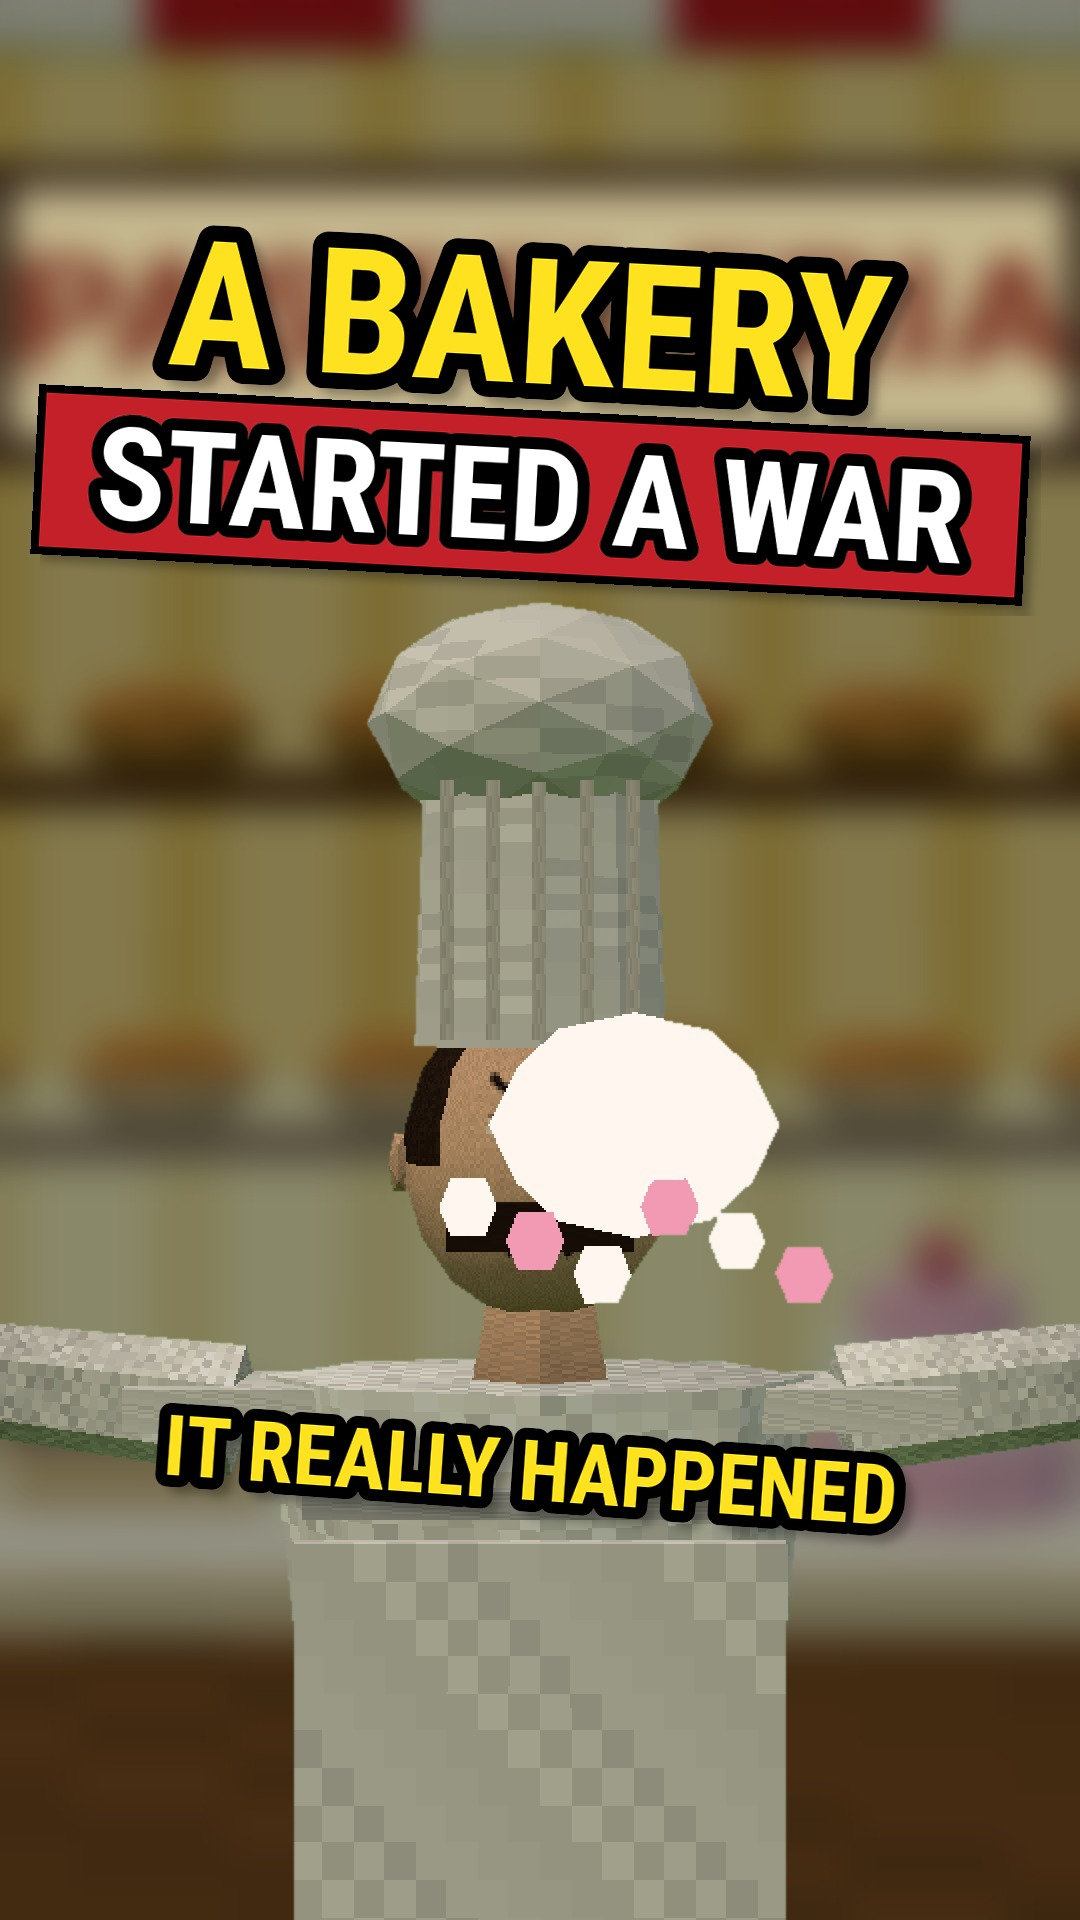
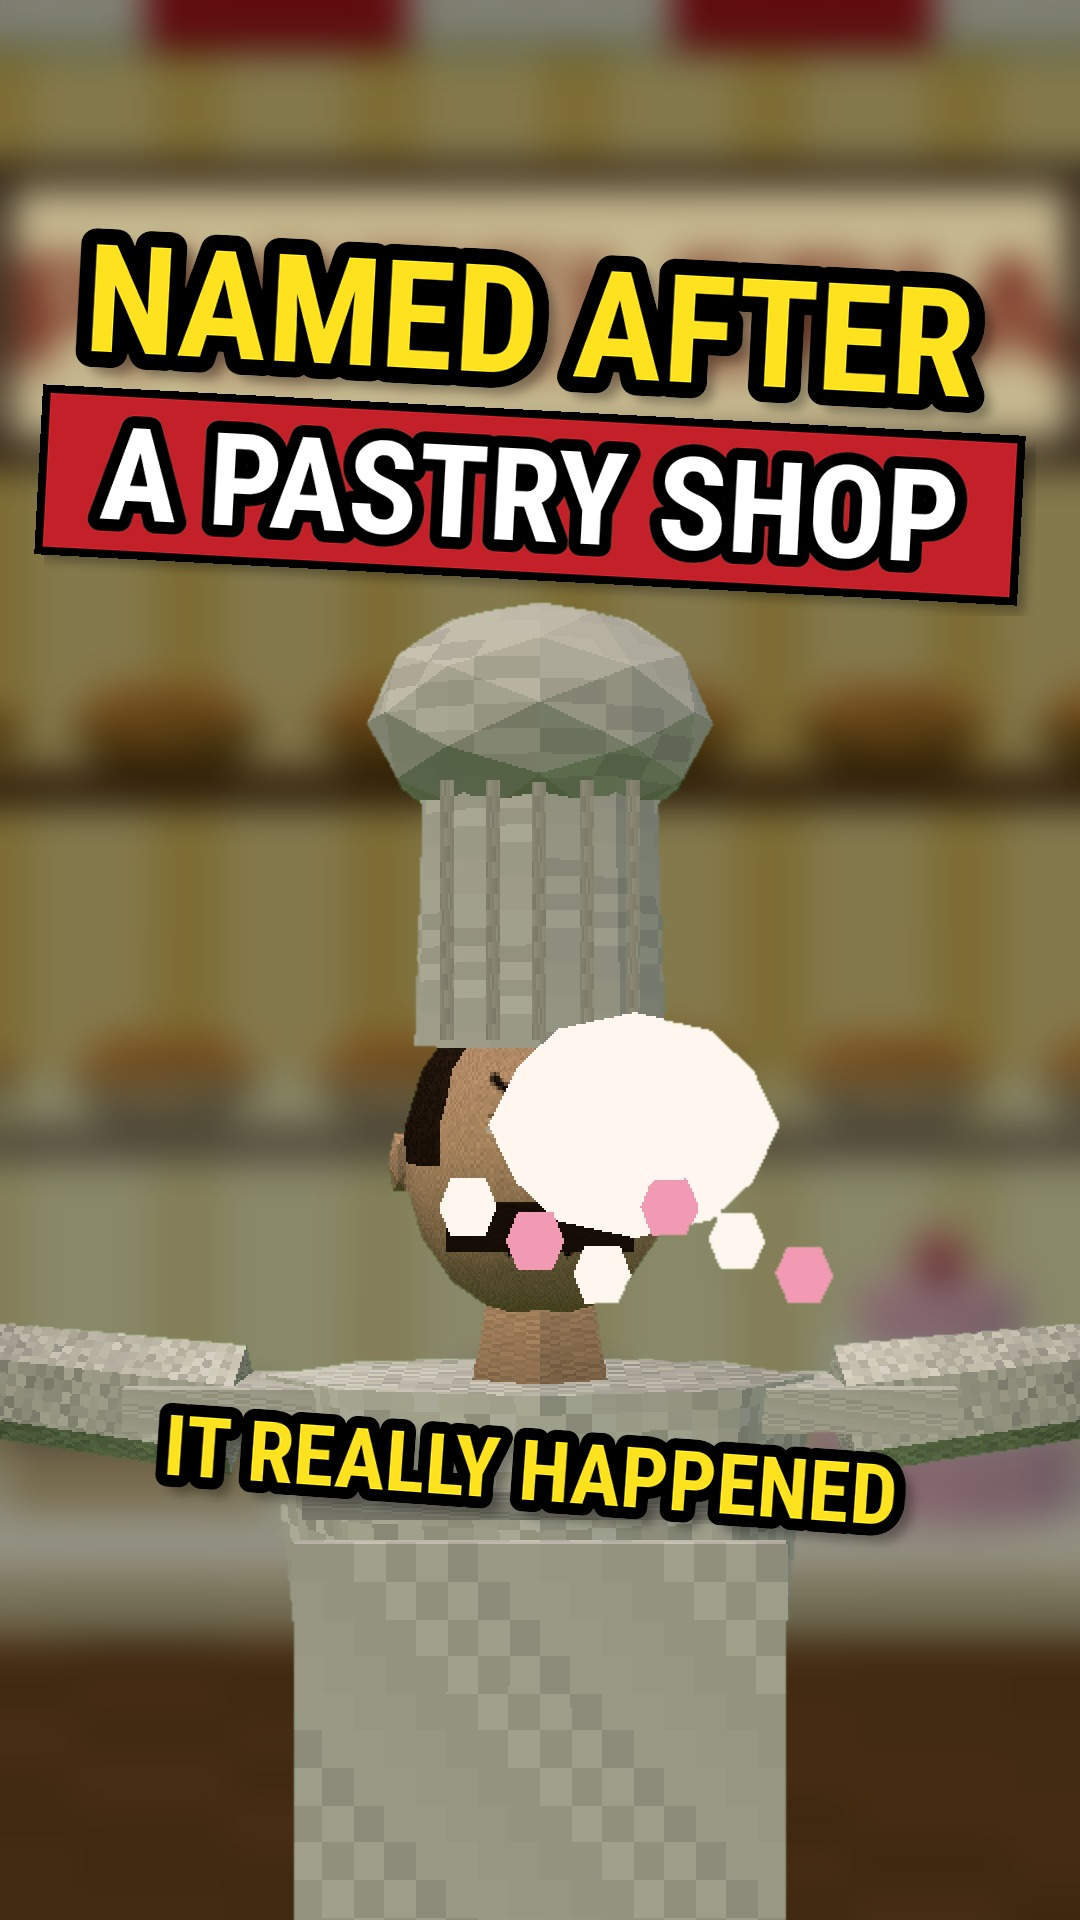
PosttimeLowPoly Pastry War: fact-checked against Wikipedia (hook/claims corrected, mob-drags-the-leg scene, military-honors instead of unverified 1842 state funeral), new title/cover/meta/source note
Claude-Session: https://claude.ai/code/session_01EUpLfkeMS9zWWcQnBujwnA

Changed region(s): [[0.0306, 0.0938, 0.9778, 0.3125]]

diff --git a/studio/lowpoly/pa2.js b/studio/lowpoly/pa2.js
@@ -24,6 +24,9 @@ const _pa2hide=hideAll;hideAll=function(){_pa2hide();PACOFFIN.scale.setScalar(1)
 function paSea(){ground.visible=false;water.visible=true;sandR.visible=false;PROPS.forEach(p=>p.visible=false);clouds.forEach(c=>c.visible=true);S.background=SKY;S.fog.color.set(HOR);HEMI.intensity=1.15}
 function paBeach(){paSea();ground.visible=true;ground.material.map=OCSAND;ground.material.needsUpdate=true}
 function paBall(i,from,to,a,hgt){const e=cl(a);PABALL[i].visible=a>0&&a<1;PABALL[i].position.set(lerp(from[0],to[0],e),lerp(from[1],to[1],e)+Math.sin(e*Math.PI)*hgt,lerp(from[2],to[2],e))}
+function paFuneral(u,d,k,cake){paSea();ground.visible=true;ground.material.map=grassT;ground.material.needsUpdate=true;water.visible=false;sandR.visible=false;show(PACOFFIN,PASANTA,PASOLD,PASOLD2,PACAKE);PACOFFIN.position.set(0,0,.4);PACOFFIN.scale.setScalar(1.4);PACOFFIN.rotation.y=.2;PASANTA.rest();PASANTA.at(-1.5,0,.4,.6);PASANTA.arms[1].rotation.set(-2.6,0,.2);PASANTA.face('bored');
+ PASOLD.rest();PASOLD.at(1.4,0,.3,-.7);PASOLD.face('bored');PASOLD.arms[0].rotation.set(-.6,0,-.2);PASOLD2.rest();PASOLD2.at(2.1,0,-.8,-.5);PASOLD2.face('bored');
+ puffs(3.2,1.2,-2,u,.2);if(cake){PACAKE.visible=true;PACAKE.position.set(-3.1,.5,1.3);PACAKE.rotation.set(0,0,.15);window.TAG('THE CAKES','0 MOURNERS','#ff8aa0')}else window.TAG('FULL MILITARY HONORS','FOR ONE LEG','#7affc0');camTo([0,2.0,8.6],[0,2.0,8.6],[0,.9,0],[0,.9,0],0,46)}
 const PAS={
 pa_smash:(u,d,k)=>{show(PASHOP,PACHEF,PASOLD,PASOLD2,PACAKE);PASHOP.visible=true;S.background=new THREE.Color(0xf6dfa0);S.fog.color.set(0xf6dfa0);ground.visible=false;water.visible=false;sandR.visible=false;PROPS.forEach(p=>p.visible=false);clouds.forEach(c=>c.visible=false);HEMI.intensity=1.25;
  PACHEF.rest();PACHEF.at(-.5,0,-1.95,.12);PASOLD.rest();PASOLD.at(.6,0,-.6,-1.2);PASOLD2.rest();PASOLD2.at(-1.5,0,-.3,1.1);
@@ -40,11 +43,12 @@ pa_fort:(u,d,k)=>{paSea();show(PAFORT);PAFORT.position.set(0,-.2,-8);PAFORT.rota
 pa_leg:(u,d,k)=>{paBeach();show(PASANTA,PALEG);PASANTA.rest();PASANTA.at(0,0,0,.25);PASANTA.face(u>.45?'shock':'smug');PASANTA.g.position.y=u>.45?Math.min(.35,(u-.45)*2):0;
  if(u>.4){const a=cl((u-.4)/.9);PALEG.visible=true;PALEG.position.set(lerp(.3,2.2,a),lerp(.9,.6,a)+Math.sin(a*Math.PI)*1.6,lerp(.2,1.4,a));PALEG.rotation.set(a*9,0,a*7)}else PALEG.visible=false;puffs(.35,.9,.2,u,.4);SHAKE=(u>.4&&u<.7)?.1:0;window.TAG('GENERAL SANTA ANNA','-1 LEG','#ff8a8a');camTo([.4,1.7,7.2],[.4,1.7,7.2],[.6,1.3,0],[.6,1.3,0],0,42)},
 pa_peace:(u,d,k)=>{paBeach();show(PASANTA,PASAIL,PACOINS,PAUJ);PASAIL.rest();PASANTA.rest();PASAIL.at(-1.2,0,0,1.25);PASANTA.at(1.2,0,0,-1.25);PASAIL.arms[1].rotation.set(-1.5,0,0);PASANTA.arms[0].rotation.set(-1.5,0,0);PASAIL.face('smug');PASANTA.face('smug');
- PAUJ.visible=true;PAUJ.position.set(0,2.6,-.4);cyl(.03,.03,2.6,5,tkMetal,0,0,0,PAUJ);PACOINS.position.set(0,0,.9);PACOINS.scale.setScalar(.9);window.TAG('BRITAIN STEPS IN','MEXICO PAYS 600,000','#7ad0ff');camTo([0,1.9,8.4],[0,1.9,8.4],[0,1.2,0],[0,1.2,0],k,42)},
-pa_funeral:(u,d,k)=>{paSea();ground.visible=true;ground.material.map=grassT;ground.material.needsUpdate=true;water.visible=false;sandR.visible=false;show(PACOFFIN,PASANTA,PASOLD,PASOLD2,PACAKE);PACOFFIN.position.set(0,0,.4);PACOFFIN.scale.setScalar(1.4);PACOFFIN.rotation.y=.2;PASANTA.rest();PASANTA.at(-1.5,0,.4,.6);PASANTA.arms[1].rotation.set(-2.6,0,.2);PASANTA.face('bored');
- PASOLD.rest();PASOLD.at(1.4,0,.3,-.7);PASOLD.face('bored');PASOLD.arms[0].rotation.set(-.6,0,-.2);PASOLD2.rest();PASOLD2.at(2.1,0,-.8,-.5);PASOLD2.face('bored');
- const st=box(.9,1.1,.2,M(0x9a9a92),.2,.55,-1.7);st.visible=true;
- puffs(3.2,1.2,-2,u,.2);if(k>.55){PACAKE.visible=true;PACAKE.position.set(-3.1,.5,1.3);PACAKE.rotation.set(0,0,.15);window.TAG('THE CAKES','0 MOURNERS','#ff8aa0')}else window.TAG('STATE FUNERAL','FOR ONE LEG','#7affc0');camTo([0,2.0,8.6],[0,2.0,8.6],[0,.9,0],[0,.9,0],0,46)}
+ PAUJ.visible=true;PAUJ.position.set(0,2.6,-.4);cyl(.03,.03,2.6,5,tkMetal,0,0,0,PAUJ);PACOINS.position.set(0,0,.9);PACOINS.scale.setScalar(.9);window.TAG('BRITAIN BROKERS PEACE','MEXICO AGREES TO PAY','#7ad0ff');camTo([0,1.9,8.4],[0,1.9,8.4],[0,1.2,0],[0,1.2,0],k,42)},
+pa_funeral:(u,d,k)=>{paFuneral(u,d,k,false)},
+pa_funeral2:(u,d,k)=>{paFuneral(u,d,k,true)},
+pa_mob:(u,d,k)=>{paSea();ground.visible=true;ground.material.map=grassT;ground.material.needsUpdate=true;water.visible=false;sandR.visible=false;show(PALEG,PASOLD,PASOLD2,PASAIL);const x0=lerp(1.6,-3.2,k);PALEG.visible=true;PALEG.position.set(x0+.6,.2,.4);PALEG.rotation.set(0,0,Math.PI/2);
+ [[PASOLD,1.4,.4],[PASOLD2,2.1,.7],[PASAIL,2.8,.2]].forEach(([P,dx,z],i)=>{P.rest();P.at(x0+dx,0,z,-Math.PI/2);P.walk(u*1.4+i,9,.9);P.arms[0].rotation.z=-1.3;P.arms[1].rotation.z=1.3;P.face('angry')});
+ window.TAG('DECEMBER 1844','A MOB DIGS IT UP','#ff8a8a');camTo([0,1.6,8.4],[0,1.6,8.4],[0,.9,0],[0,.9,0],0,44)}
 };
 Object.assign(SHOTS,PAS);
 // cover: angry chef with a cake splat (hero) over the blurred shop

diff --git a/studio/lowpoly/pa.py b/studio/lowpoly/pa.py
@@ -1,14 +1,15 @@
-# THE PASTRY WAR - Post Time LowPoly.  Source note: studio/lowpoly/topics/pa.md
-# Hook plan (HOOKS.md): frame 0 = cake already in flight; sentence 1 = the strangest outcome; splat + camera jerk at ~0.9 s; stake/number in the first 5 s.
-EP=dict(id='pa',title="A Bakery Started A War",
+# THE PASTRY WAR - Post Time LowPoly.  Source note: studio/lowpoly/topics/pa.md  (script fact-checked against Wikipedia: Pastry War, Battle of Veracruz 1838, Santa Anna)
+# Hook plan (HOOKS.md): frame 0 = cake already in flight; sentence 1 = the strangest TRUE statement; splat + camera jerk at ~0.9 s; stake/number in the first 5 s.
+EP=dict(id='pa',title="The War Named After A Pastry Shop",
  lines=[
-  dict(t="A bakery started a war between France and Mexico.",c=["A bakery","started a war","between France","and Mexico."],v='narr',pad=.1,shots=[('pa_smash',1)]),
-  dict(t="Mexican officers trashed a French pastry shop, and the chef billed them sixty thousand pesos.",c=["Mexican officers trashed","a French pastry shop,","and the chef billed them","sixty thousand pesos."],v='narr',pad=.1,shots=[('pa_bill',1)]),
-  dict(t="France demanded six hundred thousand, blockaded Mexico's ports, and bombarded Veracruz.",c=["France demanded","six hundred thousand,","blockaded Mexico's ports,","and bombarded Veracruz."],v='narr',pad=.1,shots=[('pa_fleet',.45),('pa_fort',.55)]),
-  dict(t="Mexico's General Santa Anna lost a leg to French cannon fire.",c=["Mexico's General","Santa Anna lost a leg","to French cannon fire."],v='narr',pad=.1,shots=[('pa_leg',1)]),
-  dict(t="Britain stepped in, and Mexico agreed to pay.",c=["Britain stepped in,","and Mexico","agreed to pay."],v='narr',pad=.1,shots=[('pa_peace',1)]),
-  dict(t="Years later, Santa Anna gave that leg a state funeral.",c=["Years later,","Santa Anna gave that leg","a state funeral."],v='narr',pad=.1,shots=[('pa_funeral',.6)]),
-  dict(t="The leg got a funeral. The cakes got nothing.",c=["The leg got a funeral.","The cakes","got nothing."],v='narr2',shots=[('pa_funeral',.4)],pad=.9),
+  dict(t="This war is named after a pastry shop.",c=["This war","is named after","a pastry shop."],v='narr',pad=.1,shots=[('pa_smash',1)]),
+  dict(t="A French pastry chef complained that Mexican officers looted his shop, and demanded sixty thousand pesos.",c=["A French pastry chef","complained that Mexican officers","looted his shop,","and demanded","sixty thousand pesos."],v='narr',pad=.1,shots=[('pa_bill',1)]),
+  dict(t="France then demanded six hundred thousand pesos, blockaded Mexico's ports, and bombarded the fortress at Veracruz.",c=["France then demanded","six hundred thousand pesos,","blockaded Mexico's ports,","and bombarded","the fortress at Veracruz."],v='narr',pad=.1,shots=[('pa_fleet',.45),('pa_fort',.55)]),
+  dict(t="General Santa Anna was hit by French cannon fire and lost a leg.",c=["General Santa Anna","was hit by French cannon fire","and lost a leg."],v='narr',pad=.1,shots=[('pa_leg',1)]),
+  dict(t="Britain brokered peace, and Mexico agreed to pay. Mexico never did.",c=["Britain brokered peace,","and Mexico agreed to pay.","Mexico never did."],v='narr',pad=.1,shots=[('pa_peace',1)]),
+  dict(t="Santa Anna buried his leg with full military honors.",c=["Santa Anna buried his leg","with full military honors."],v='narr',pad=.1,shots=[('pa_funeral',1)]),
+  dict(t="Six years later, a mob dug it up and dragged it through the streets.",c=["Six years later,","a mob dug it up","and dragged it","through the streets."],v='narr',pad=.1,shots=[('pa_mob',1)]),
+  dict(t="The leg got a funeral. The cakes got nothing.",c=["The leg got a funeral.","The cakes","got nothing."],v='narr2',shots=[('pa_funeral2',1)],pad=.9),
  ],
- sfx=[('pa_smash',.05,'whoosh'),('pa_smash',.85,'splat'),('pa_smash',.9,'boing'),('pa_bill',.2,'plink'),('pa_bill','%0.5','chime'),('pa_fleet',.3,'boom'),('pa_fleet','%0.6','boom'),('pa_fort',.5,'boom'),('pa_fort','%0.6','boom'),('pa_leg','%0.4','boom'),('pa_leg','%0.55','boing'),('pa_peace',.2,'chime'),('pa_funeral',.3,'boom'),('pa_funeral','%0.5','wah'),('pa_funeral','%0.95','rimshot')],
+ sfx=[('pa_smash',.05,'whoosh'),('pa_smash',.85,'splat'),('pa_smash',.9,'boing'),('pa_bill',.2,'plink'),('pa_bill','%0.5','chime'),('pa_fleet',.3,'boom'),('pa_fleet','%0.6','boom'),('pa_fort',.5,'boom'),('pa_fort','%0.6','boom'),('pa_leg','%0.4','boom'),('pa_leg','%0.55','boing'),('pa_peace',.2,'chime'),('pa_funeral',.3,'boom'),('pa_mob',.1,'whoosh'),('pa_mob','%0.5','thump',6,.35),('pa_funeral2','%0.3','wah'),('pa_funeral2','%0.8','rimshot')],
 )

diff --git a/studio/lowpoly/cover_pa.py b/studio/lowpoly/cover_pa.py
@@ -22,7 +22,7 @@ def drop(L,off=10,blur=6):
     s=Image.new('RGBA',L.size,(0,0,0,0));s.putalpha(L.split()[3].point(lambda v:int(v*.55)));s=s.filter(ImageFilter.GaussianBlur(blur));o=Image.new('RGBA',(L.size[0]+2*off,L.size[1]+2*off),(0,0,0,0));o.paste(s,(off,off),s);o.paste(L,(0,0),L);return o
 def put(L,cx,cy,rot=0):
     L=drop(L.rotate(rot,expand=True,resample=Image.BICUBIC));im.paste(L,(cx-L.size[0]//2,cy-L.size[1]//2),L)
-f1=ImageFont.truetype(F,176);put(tl('A BAKERY',f1,(255,226,31,255),16),W//2,330,-3)
-f2=ImageFont.truetype(F,130);t=tl("STARTED A WAR",f2,(255,255,255,255),12);bw,bh=t.size[0]+60,t.size[1]+10;ban=Image.new('RGBA',(bw,bh),(0,0,0,0));d=ImageDraw.Draw(ban);d.rectangle([0,0,bw-1,bh-1],fill=(196,32,42,255),outline=(0,0,0,255),width=8);ban.paste(t,(30,5),t);put(ban,W//2,505,-3)
+f1=ImageFont.truetype(F,150);put(tl('NAMED AFTER',f1,(255,226,31,255),16),W//2,330,-3)
+f2=ImageFont.truetype(F,130);t=tl("A PASTRY SHOP",f2,(255,255,255,255),12);bw,bh=t.size[0]+60,t.size[1]+10;ban=Image.new('RGBA',(bw,bh),(0,0,0,0));d=ImageDraw.Draw(ban);d.rectangle([0,0,bw-1,bh-1],fill=(196,32,42,255),outline=(0,0,0,255),width=8);ban.paste(t,(30,5),t);put(ban,W//2,505,-3)
 fh=ImageFont.truetype(F,84);put(tl('IT REALLY HAPPENED',fh,(255,226,31,255),12),540,1480,-4)
 im.convert('RGB').save(H+'/topics/pa.cover.jpg',quality=92);print(os.path.getsize(H+'/topics/pa.cover.jpg')//1024,'KB')

diff --git a/studio/lowpoly/topics/pa.md b/studio/lowpoly/topics/pa.md
@@ -1,11 +1,19 @@
-# A Bakery Started A War (The Pastry War) — source note
-Checked 2026-11-01 by web search (summaries; the pages themselves could not be opened from the session; secondary/popular histories, not scholarly sources).
-- "A bakery started a war between France and Mexico." — the Pastry War (Nov 1838 - Mar 1839); sources: Wikipedia (Pastry War, Battle of Veracruz 1838), History.com, Mexico News Daily, britishempire.co.uk.
-- "Mexican officers trashed a French pastry shop, and the chef billed them sixty thousand pesos." — French pastry chef Remontel, shop in Tacubaya, looted by Mexican army officers; he claimed 60,000 pesos. The YEAR of the looting is given as 1828 by some sources and 1832 by others, so the script does not name a year.
-- "France demanded six hundred thousand, blockaded Mexico's ports, and bombarded Veracruz." — France demanded 600,000 pesos (the demand included more claims than the pastry shop); blockade of Gulf ports from 1838; bombardment of San Juan de Ulua / Veracruz 27 Nov - 5 Dec 1838.
-- "Mexico's General Santa Anna lost a leg to French cannon fire." — leg lost at Veracruz in 1838 (amputated below the knee; a French cannonball/grapeshot; some sources place the amputation early 1839).
-- "Britain stepped in, and Mexico agreed to pay." — British mediation; Mexico agreed to pay the 600,000 pesos; French forces left on 9 March 1839.
-- "Years later, Santa Anna gave that leg a state funeral." — 1842: the leg was exhumed, paraded to Mexico City and buried with ceremony and cannon salutes (several sources; one gives 27 Sep 1842, Santa Paula cemetery). In 1844 rioters dug it up and dragged it through the streets. His prosthetic leg was captured by US forces at Cerro Gordo (1847) and is displayed in the Illinois State Military Museum.
-- Joke, not a claim: "The leg got a funeral. The cakes got nothing."
-- Visual simplifications (not claims): uniforms, ships, fort and set dressing are stylised; Santa Anna is shown with a peg leg from the start of the shot where he loses the leg.
-- TODO before relying on it: confirm the exact looting year, the 600,000-peso payment details and the funeral date against a scholarly source.
+# The War Named After A Pastry Shop (Pastry War) — source note
+Fact-checked 2026-11-01 against the raw text of Wikipedia articles (opened via curl): "Pastry War", "Battle of Veracruz (1838)", "Antonio López de Santa Anna". These are secondary/encyclopedia sources, not scholarly ones. History.com, Mexico News Daily, Texas State Library pages could not be opened from the session.
+
+| script line | status | source / note |
+|---|---|---|
+| "This war is named after a pastry shop." | OK | Pastry War: war "named after" the pastry chef; France acted over several complaints, the chef was one. NOT claimed: that a bakery alone started the war. |
+| "A French pastry chef complained that Mexican officers looted his shop, and demanded sixty thousand pesos." | OK, as a claim | Remontel's complaint to Louis-Philippe: officers looted his shop in 1832 (Wikipedia), demanded 60,000 pesos (shop valued under 1,000). Mexican sources say the officers simply refused to pay their bills: the opening shot dramatises HIS version. Year not spoken (other sources say 1828). |
+| "France then demanded six hundred thousand pesos" | OK | 1838, PM Molé; 600,000 pesos (3 million francs), covering many complaints, not only the shop. |
+| "blockaded Mexico's ports" | OK | Gulf ports from Yucatán to the Rio Grande, from Nov 1838. |
+| "bombarded the fortress at Veracruz" | OK | San Juan de Ulúa citadel bombarded 27-28 Nov 1838 (Battle of Veracruz). |
+| "General Santa Anna was hit by French cannon fire and lost a leg." | OK | Santa Anna article: injuries to left leg and hand by cannon fire, leg amputated (6 Dec 1838 per Battle of Veracruz; war article says grapeshot). |
+| "Britain brokered peace, and Mexico agreed to pay. Mexico never did." | OK, with a caveat | Pastry War: British-brokered peace, treaty 9 Mar 1839, Mexico agreed to pay 600,000 pesos; "The damages were never paid" (also used to justify the 1861 French intervention). The same article says France took trade promises in place of indemnities: wording kept simple. |
+| "Santa Anna buried his leg with full military honors." | OK | Santa Anna article and Battle of Veracruz: leg buried with full military honors. |
+| "Six years later, a mob dug it up and dragged it through the streets." | OK | Santa Anna article: he fled in Dec 1844; the buried leg in the capital was dug up by a mob and dragged through the streets. |
+| "The leg got a funeral. The cakes got nothing." | joke | not a claim |
+
+Removed after checking: the "1842 state funeral with a parade" (seen only in search summaries of sources that could not be opened; not in the Wikipedia articles) and the original hook "A bakery started a war" (overclaim).
+Visual simplifications: uniforms/ships/fort are stylised; Santa Anna is drawn with his peg leg from the start of the shot where he loses the leg; he lost his LEFT leg and the model has the peg on the character's left; the mob is generic soldiers.
+Still unchecked (nice to have): a scholarly source for the 1832/1828 looting date and for the payment history.
